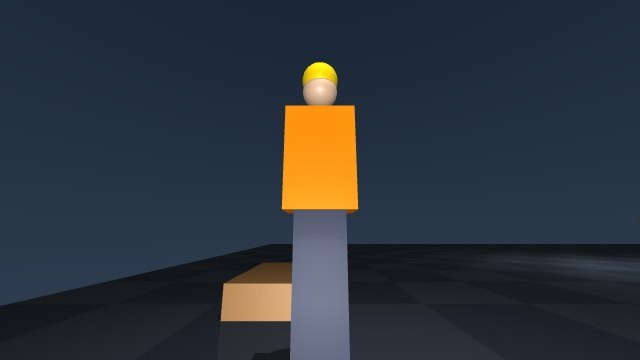
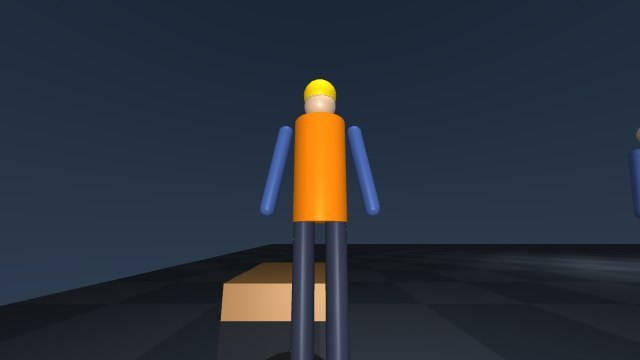
Demo model-backed safety sweep with Qwen-judged PPE violation

Changed region(s): [[0.4062, 0.1528, 0.5938, 1.0], [0.9688, 0.3667, 1.0, 0.55]]

diff --git a/docs/SITE_SAFETY.md b/docs/SITE_SAFETY.md
@@ -1,10 +1,34 @@
 # Site safety sweep (fire / first aid / escape routes / PPE)
 
-![ULTRON safety sweep](images/ultron-safety-sweep.gif)
+![ULTRON safety sweep, model-backed](images/ultron-safety-sweep-model.gif)
 
 | PPE OK | PPE violation (flagged) |
 |---|---|
 | ![helmet and vest](images/safety-ppe-ok.jpg) | ![no helmet, no vest](images/safety-ppe-violation.jpg) |
+
+## Model-backed mode (no sim-oracles)
+
+With model backends configured, discovery confirmation and all criteria
+verdicts come from pixels, not scene truth:
+
+    HF_HUB_DISABLE_IMPLICIT_TOKEN=1 PYTHONPATH=src MUJOCO_GL=osmesa python3 -m ultron demo \
+      --out runs/model-safety --patrols 1 --safety \
+      --detector yolo --weights weights/yoloe-11s-seg.pt \
+      --inspector qwen --qwen Qwen/Qwen3-VL-2B-Instruct --allow-download
+
+- Station confirmation: YOLOE open-vocab box near the station
+  (`source=ULTRALYTICS_MODEL`) or Qwen3-VL visual confirmation
+  (`source=QWEN_VL_PROPOSAL`). Neither → `SAFETY_CHECK_INCOMPLETE`
+  `reason=NOT_DETECTED_BY_MODEL`.
+- Judgment: `SAFETY_STATION_JUDGED` carries per-criterion `OK/DEFECT/UNKNOWN`
+  states and the model's literal reason (`source=MODEL_PROPOSAL`);
+  `SAFETY_VIOLATION` fires when the model judges `psa.helm`/`psa.warnweste`
+  DEFECT.
+- Measured on this scene (2026-11-28): YOLOE (`yoloe-11s-seg`) detects
+  nothing on primitive renders — kept wired because it is the adapter for
+  real imagery; Qwen3-VL-2B confirmed and judged all 5 stations, flagging
+  the bare-headed mannequin from front and side views.
+- The segmentation oracle runs only with the default flags (CI/no-GPU).
 
 Beyond the ladder protocol, patrol 0 can sweep nesseler-style site-safety
 stations. Checklists are data: `src/ultron/assets/site_safety_v1/` mirrors
